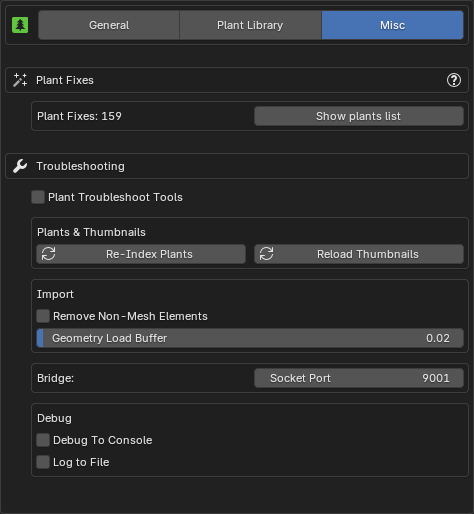
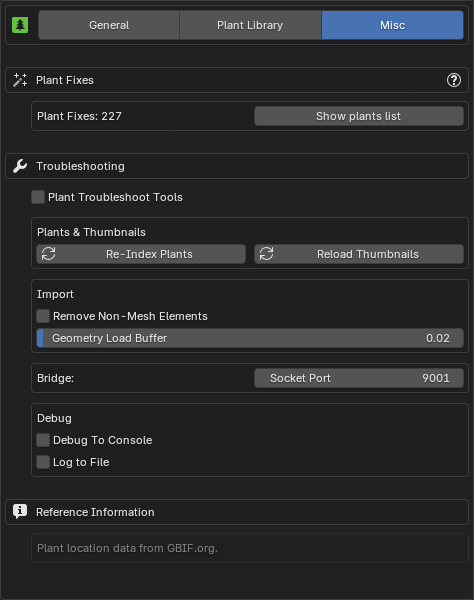
1.1.4

Changed region(s): [[0.0, 0.1245, 1.0, 0.9339], [0.0295, 0.0, 1.0, 0.0934]]

diff --git a/docs/workflow/browse_via_blender.md b/docs/workflow/browse_via_blender.md
@@ -16,11 +16,13 @@
     - **LD Only**: Show low detail only.
     - **RT Only**: Show real-time detail only.
 - **Plant Browser**:
-    <br>Above the thumbnail, the plant name is displayed (`Ficus carica HD`) along with its English name (`Common Fig Tree`), and below it, the preset name (`Standard (0)`).
+    <br>Above the thumbnail, the plant name is displayed (`Plumeria rubra pink HD`) along with its English name (`Pink Frangipani`), and below it, the preset name (`Standard (0)`).
     - :blender_icon_snap_vertex:: Opens the plant gallery, see [gallery view](#gallery-view) below.
     - :blender_icon_preset:: Opens the preset gallery, see [gallery view](#gallery-view) below.
     - :octicons-triangle-left-24:: Navigates to the previous plant or preset.
     - :octicons-triangle-right-24:: Navigates to the next plant or preset
+    - :octicons-info-16:: Opens a popup displaying information about the plant. Read more in the [Plant Info Popup](#plant-info-popup) section.
+    <!-- ![plant gallery top panel](../images/plant-info-popup_plant.webp){ .img-box .on-glb align=right width=27% data-description="Plant Info Popup"} -->
     - **Browse Mode**: Plants or Presets.
     <!-- ![Browse via Blender](../images/browse-via-blender-panel_plant-browser.webp){ .img-box align=left } -->
 
@@ -36,6 +38,7 @@
 - **Import Overrides** These settings allow you to manually define the Age/Maturity, Health and Season of imported plants. See the [Import Overrides](#import-overrides) section below for details.
 - :blender_icon_import: **Import Plant**: Starts importing the selected plant(s).
 - :octicons-stack-24:: **Use import Queue**, see the [Queue](#queue) section for details.
+
 
 
 ### Import Overrides
@@ -72,19 +75,69 @@ The override settings are stored in the [Plant Details](./post_processing.md#pla
 
 
 
+### LODs
+
+When enabled, you can choose which Levels of Detail to import.
+
+![Queue](../images/lods.webp){ .img-box align=left }
+LOD 0 is the default, highest-detail geometry, while higher LOD numbers use progressively simpler geometry for performance optimization. You can enable or disable any combination of LODs, allowing you to import only the versions you need.
+
+!!! info2 "Notes"
+    - The available LODs depend on how the plant was set up in PlantFactory. Most plants provide LODs 0-3, but some may have fewer or more. Selecting a higher LOD does not guarantee it exists; only the plant's defined LODs will be imported.
+    - When the 'Extra LODs' feature is enabled, PlantFactory generates all available LODs internally, which requires additional processing time, regardless of which ones you select. PF2B will then only import the LODs you've chosen, but the processing time is the same no matter which or how many LODs you select.
+
+<h5>Examples</h5>
+
+Example of LODs with the `Adansonia digitata (Baobap Tree)` plant using the `Standard mat 25` preset, exported in all three available detail levels: HD (High Detail), LD (Low Detail), and RT (Realtime, which also uses billboards):
+
+=== "Wireframe"
+    ![LOD example](../images/plants/lods/wireframe/HD.webp){ .on-glb }
+
+    ![LOD example](../images/plants/lods/wireframe/LD.webp){ .on-glb }
+
+    ![LOD example](../images/plants/lods/wireframe/RT.webp){ .on-glb }
+
+=== "Rendered"
+    ![LOD example](../images/plants/lods/HD.webp){ .on-glb }
+
+    ![LOD example](../images/plants/lods/LD.webp){ .on-glb }
+
+    ![LOD example](../images/plants/lods/RT.webp){ .on-glb }
+
+!!! info2 ""
+    Note that polygon counts can vary greatly depending on the plant and preset. In this example, the `Standard mat 25` preset is used, where the "mat 25" indicates the plant’s **maturity**, representing its age as a percentage of its maximum potential. A value of **0** means the plant is very young, while **100** represents full maturity. For this tree, maturity has a huge impact on both height and polygon count: at 0% maturity it is roughly 5.5 m tall, while at full maturity it reaches about 16 m. At 25% maturity, as shown here, the plant is around 11 m tall. There are many other presets available for this plant, some of which reach even greater sizes.
+
+
 ### Queue
 
 The queue system lets you add multiple plants to a queue, which you can then import in a single batch, simplifying the process of importing various species and presets.
 
-![plant gallery top panel](../images/queue.webp){ .img-box align=left }
 
-- :octicons-info-16:: Opens a popup that displays information about the plant. ![plant gallery top panel](../images/queue_info-popup.webp){ .img-box .on-glb align=right width=27% data-description="Info popup"}
-    - **Open**: Open this plant in the Plant Browser.
-    - **Plant-Fixes available**: This button will appear if there are [Plant-Fixes](../support/pf2b_under_the_hood.md#plant-fixes-system) available for the plant. When clicked, it will display all the fixes applied during the import of this plant.
-    - **Search on Wikipedia**: lets you search for the plant species on Wikipedia; hold down Shift while clicking to search on DuckDuckGo instead.
+The queue can be activated by pressing the :octicons-stack-24: icon to the right of the `Import` button. Once activated, the `Import` button changes to `Add to Queue`, and two new options appear below: an `Import All` button and the :material-menu: `Queue Actions` menu.
+
+You can now browse plants and use any of the `Add to Queue` buttons to add them to the queue.
+
+---
+
+![Queue](../images/queue_empty.webp){ .img-box align=right }
+
+- :blender_icon_import: **Import All**: Import all plants in the queue.
+- :material-menu: **Queue Actions**:
+    - **Save Queue**: Save the current plant import queue to an external `.pf2bqueue` file for backup or reuse. The file is small and easy to store.
+    - **Load Queue**: Load a plant import queue from an external `.pf2bqueue` file.
+    - **Clear Queue**: Remove all plants from the queue.
+
+---
+
+
+![Queue](../images/queue.webp){ .img-box align=left }
+
+Each queue item shows the following buttons:
+
+- :octicons-info-16:: Opens a popup displaying information about the plant. Read more in the [Plant Info Popup](#plant-info-popup) section.
+    ![plant gallery top panel](../images/plant-info-popup_preset-with-image.webp){ .img-box .on-glb align=right width=27% data-description="Plant Info Popup"}
 - **Quantity**: The number field lets you specify how many of this plant will be imported.
 - :fontawesome-regular-trash-can:: Delete the plant from the queue.
-- **Clear Queue**: Removes all plants from the queue.
 
 <div style="clear:both"></div>
 
@@ -124,9 +177,9 @@ If we look at an individual plant inside the gallery we have the following butto
 
 - **Presets**: Opens the presets gallery for this plant.
 - **Select**: Selects the plant and closes down the plant gallery.
-- **:octicons-info-16:**: Opens a popup that displays information about the plant. ![plant gallery top panel](../images/gallery_plants_plant-example_popup.webp){ .img-box }
-    - **Plant-Fixes available**: This button will appear if there are [Plant-Fixes](../support/pf2b_under_the_hood.md#plant-fixes-system) available for the plant. When clicked, it will display all the fixes applied during the import of this plant.
-    - **Search on Wikipedia**: lets you search for the plant species on Wikipedia; hold down Shift while clicking to search on DuckDuckGo instead.
+- :octicons-info-16:: Opens a popup displaying information about the plant. Read more in the [Plant Info Popup](#plant-info-popup) section.
+    ![plant gallery top panel](../images/plant-info-popup_plant.webp){ .img-box }
+
 
 <div style="clear:both"></div>
 
@@ -150,13 +203,49 @@ If we look at an individual presets inside the gallery we are presented with dep
     ![Preset example](../images/gallery_presets_preset-example.webp){ .img-box align=left  }
 
     - **Select**: Selects the plant and closes down the plant gallery.
-    - **:octicons-info-16:**: Opens a popup that displays information about the plant. ![plant gallery top panel](../images/gallery_presets_preset-example_popup.webp){ .img-box  }
-        - **Plant-Fixes available**: This button will appear if there are [Plant-Fixes](../support/pf2b_under_the_hood.md#plant-fixes-system) available for the plant. When clicked, it will display all the fixes applied during the import of this plant.
+    - :octicons-info-16:: Opens a popup displaying information about the plant. Read more in the [Plant Info Popup](#plant-info-popup) section.
+        ![plant gallery top panel](../images/plant-info-popup_preset.webp){ .img-box  }
+
 
 === "With 'Queue' button"
     ![Preset example with queue button](../images/gallery_presets_preset-example-with-queue-button.webp){ .img-box align=left  }
 
     - **Add to Queue**: Adds the preset to the queue. For more information about the queue system, please see the [Queue](#queue) section.
     - **Select**: Selects the plant and closes down the plant gallery.
-    - **:octicons-info-16:**: Opens a popup that displays information about the plant. ![plant gallery top panel](../images/gallery_presets_preset-example_popup.webp){ .img-box  }
-        - **Plant-Fixes available**: This button will appear if there are [Plant-Fixes](../support/pf2b_under_the_hood.md#plant-fixes-system) available for the plant. When clicked, it will display all the fixes applied during the import of this plant.
+    - :octicons-info-16:: Opens a popup displaying information about the plant. Read more in the [Plant Info Popup](#plant-info-popup) section.
+        ![plant gallery top panel](../images/plant-info-popup_preset.webp){ .img-box  }
+
+
+
+
+### Plant Info Popup
+
+
+The Plant Info popup, accessible via the :octicons-info-16: button, appears in multiple places in the interface. Its appearance may vary depending on location, as some of the displayed content is context-specific. See the examples in the screenshots below.
+
+Common information shown includes:
+
+- Plant names
+- Preset details
+- Global distribution (continents and countries, with data from [GBIF.org](https://www.gbif.org/))
+- Function buttons
+
+=== "Plant"
+    ![plant gallery top panel](../images/plant-info-popup_plant.webp){ .img-box }
+
+=== "Preset"
+    ![plant gallery top panel](../images/plant-info-popup_preset.webp){ .img-box }
+
+=== "Preset with Image"
+    ![plant gallery top panel](../images/plant-info-popup_preset-with-image.webp){ .img-box }
+
+- **Function buttons**:
+    - **Plant-Fixes available**: This button will appear if there are [Plant-Fixes](../support/pf2b_under_the_hood.md#plant-fixes-system) available for the plant. When clicked, it will display all the fixes applied during the import of this plant.
+    - **Open**: Opens this plant in the Plant Browser. Useful if you want to import additional instances of the same plant type into the scene.
+    - **Search Plant Info**: lets you search for information about a plant species online. Clicking it presents the following options:
+        - **[Wikipedia](https://www.wikipedia.org/)**
+        - **[Wikimedia Species](https://species.wikimedia.org/)**
+        - **[POWO](https://powo.science.kew.org/)**: Plants of the World Online, provided by the Royal Botanic Gardens, Kew.
+        - **[GBIF](https://www.gbif.org/)**: Global Biodiversity Information Facility, providing free and open access to biodiversity data.
+        - **[DuckDuckGo](https://duckduckgo.com/)**
+        - **[Google](https://www.google.com/)**

diff --git a/docs/workflow/import_settings.md b/docs/workflow/import_settings.md
@@ -7,7 +7,7 @@ These settings are shared between both Import modes.
 - **Pack Textures**: Packs the textures of the imported plants into the current Blend file ensuring that your plants retain their appearance without the need for external texture files. **Cannot be disabled**.
 - **Mark as Asset**: Marks imported plants as assets, making them easily accessible in Blender's Asset Browser for future use.
     - When enabled, the asset will automatically have tags and metadata added for better organization and searchability within the Blender Asset Library. These include:
-        - Plant name (Latin & English, if available), Preset Description, Preset Name, Maturity, Health, Season, Height
+        - Plant name (Latin & English, if available), Preset Description, Preset Name, Maturity, Health, Season, Height, Seed, LOD.
     !!! inline abstract "Asset Tags Example"
         ![Asset Tags Example](../images/mark_as_asset-tags.webp){ .img-box .on-glb }
 
@@ -15,6 +15,11 @@ These settings are shared between both Import modes.
 
 - **Merge duplicate Materials**: When enabled, this option ensures that imported plants reuse existing materials in the scene if names match (e.g. Leaf, Bark). This prevents Blender from generating duplicates like Leaf.001, helping maintain a cleaner and more organized material list across multiple imports.
 - **Use a custom Export path**: Set a custom export path if you need to access the files exported from PlantFactory. If this setting is not enabled, the exported files will be removed from their temporary location once they are imported into Blender.
+- **Grid Spacing**: Controls the distance between plants in the import grid when importing multiple plants at once. When importing more than 10 plants, new rows are automatically created, and if `Import Extra LODs` is enabled, each LOD will be placed on its own row.
+    - Small
+    - Medium
+    - Large
+
 
 ### Name Settings
 
@@ -31,6 +36,8 @@ The animated GIF below shows an example of adding the "Maturity" parameter and h
     - **Add Health**
     - **Add Season Name**
     - **Add Height**
+    - **Add Seed**
+    - **Add LOD**: Only available when using the [Import Extra LODs](browse_via_blender.md#lods) feature.
 
 === "Browse via PlantFactory"
     ![Import Name Settings](../images/import_name_settings-via_plantfactory.gif){ .img-box align=left }

diff --git a/docs/changelog.md b/docs/changelog.md
@@ -12,6 +12,30 @@ Here, you can find a list of all updates, enhancements, and bug fixes made to PF
 
 <div class="changelog" markdown>
 
+### 1.1.4 <small>2025-08-17</small>
+
+- **New Functionality**
+    - **LODs**: Import models at different Levels of Detail to control polygon count and optimize performance, giving you more flexibility to fit plants into your scene. [More info](workflow/browse_via_blender.md#lods)
+    - **Improved Plant Info Popup**: Now shows information about the plant's global distribution, including continents and countries. [More info](workflow/browse_via_blender.md#plant-info-popup)
+    - **Queue Save & Load**: Added the ability to save and load the import queue from external `.pf2bqueue` files for easy backup and reuse. [More info](workflow/browse_via_blender.md#queue)
+    - **Grid Size Adjustment**: You can now control the distance between plants in the import grid when importing multiple plants at once. [More info](workflow/import_settings.md#general-settings)
+- **Improved Functionality**
+    - **Import Settings > Name Settings**: Added new options, including Seed and LOD.
+    - Seed is now added as an asset tag when using the `Mark as Asset` option.
+- **Interface**
+    - Improved visibility for active Import Overrides or LODs by adding an asterisk (*) to the interface box when they are active.
+    - The `Clear Queue` button has been moved to the new :material-menu:`Queue Actions` menu.
+    - Miscellaneous tooltip adjustments and fixes.
+    - **Seed**: Maximum seed value increased from 9,999,999 to 999,999,999.
+- **Other**
+    - Blender 4.5 has updated its 'preset' icon from :blender_icon_preset_old: to :blender_icon_preset:, so the documentation now uses the new icon as well.
+- **Plant-Fixes**:
+    - **New**:
+        - `PlantCatalog > Grass > Cyperus alternifolius HD`
+        - `PlantCatalog > Grass > Cyperus alternifolius LD`
+
+---
+
 ### 1.1.3 <small>2025-08-05</small>
 
 > Compatibility: This version and previous versions have been verified to work with Blender 4.2 LTS, 4.3, 4.4, and 4.5 LTS.
